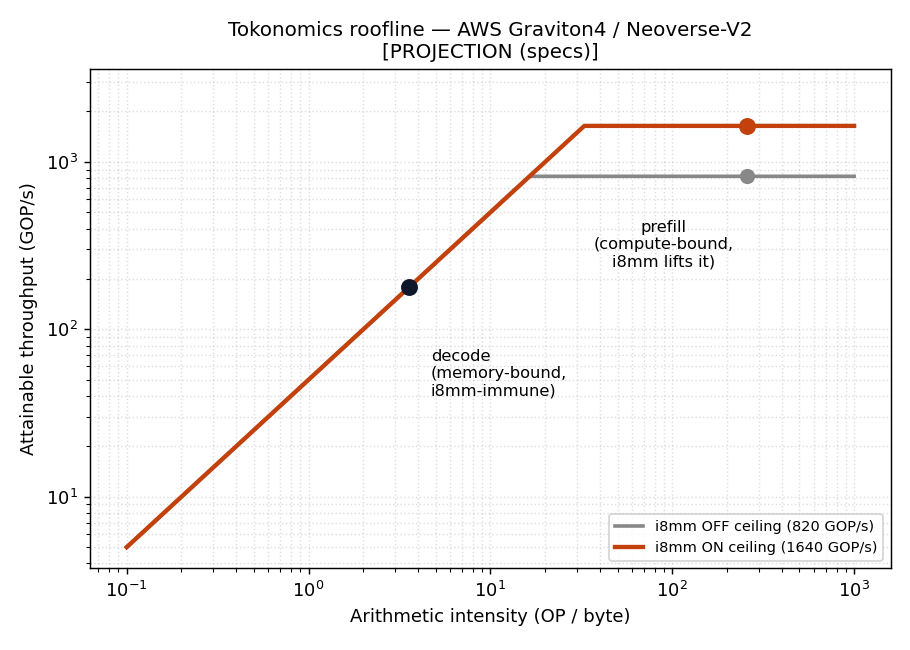
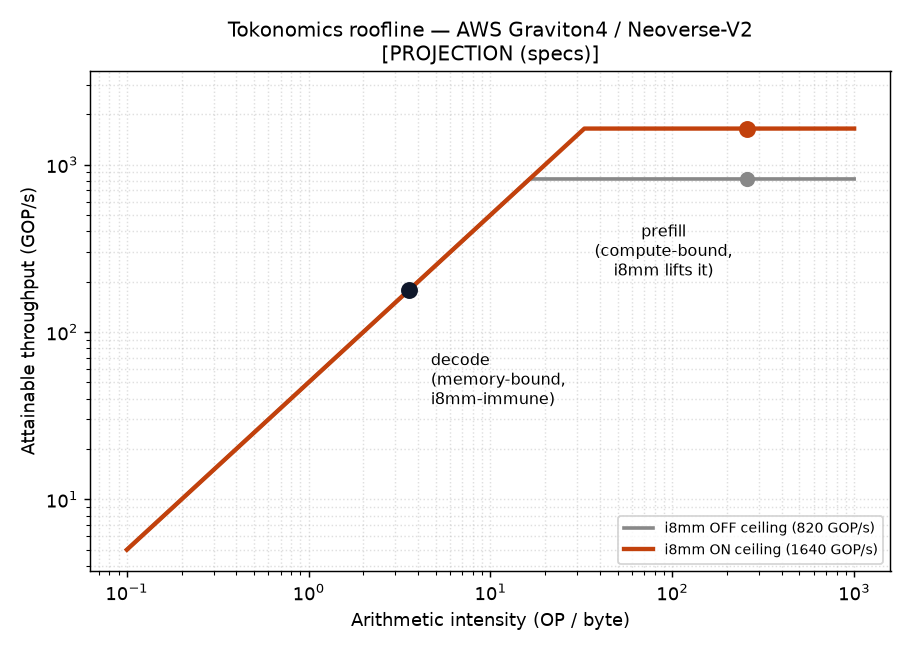
ci: measured Arm N2 economics + figures [skip ci]

diff --git a/REPORT.md b/REPORT.md
@@ -4,13 +4,24 @@ _This file is generated by `tokonomics report`. Do not edit by hand._
 
 `tokens/J*` carries a `*` because **power is never measured here** — it is TDP-derived from published specs. So a `tokens/J*` cell is a **projection even on a row whose throughput is `measured`**: the tok/s may be real silicon, but the joules are an estimate. Treat the energy column as directional, and rank instances by `tokens/$` (fully measured when CI runs) when you need a hard number.
 
+## ✅ MEASURED (on-silicon)
+Model: **Llama-3.2-1B Q4_0**
+
+| instance | phase | i8mm | tok/s | tokens/$ | tokens/J* |
+|---|---|---|--:|--:|--:|
+| cobalt100-n2 | prefill | off | 34.2 | 879,470 | 0.76 |
+| cobalt100-n2 | prefill | on | 40.9 | 1,051,175 | 0.91 |
+| cobalt100-n2 | decode | off | 34.2 | 879,470 | 0.76 |
+| cobalt100-n2 | decode | on | 40.9 | 1,051,175 | 0.91 |
+
+
 ## 🧪 x86 DEV PROXY (float, pipeline check — not Arm int8)
 Model: **Llama-3.2-1B Q4_0**
 
 | instance | phase | i8mm | tok/s | tokens/$ | tokens/J* |
 |---|---|---|--:|--:|--:|
-| x86-dev | prefill | on | 134.7 | 3,036,544 | 2.69 |
-| x86-dev | decode | on | 8.7 | 196,848 | 0.17 |
+| x86-dev | prefill | on | 9.9 | 223,491 | 0.20 |
+| x86-dev | decode | on | 3.9 | 87,340 | 0.08 |
 
 
 ## 📐 PROJECTION (published specs — run CI to measure)
@@ -44,6 +55,3 @@ Model: **Llama-3.2-1B Q4_0**
 > Sensitivity: this is a **projection** computed from the hand-entered `projection/specs.yaml` (bandwidth, peak GOP/s) and `econ/pricing.yaml` ($/hr, TDP). The crossover *ordering* is robust (compute-per-$ rises while bandwidth-per-$ is flat), but the exact ratio where it flips — and whether decode tokens/$ strictly *declines* at the newest chip — depends on those inputs. Re-run CI with measured ceilings to confirm on silicon.
 
 ![crossover](figures/crossover_projected.png)
-
-## Measured Arm numbers
-_Empty until the CI harness runs on real silicon (`.github/workflows/bench.yml`, free `ubuntu-24.04-arm` = Neoverse N2). Fork and run it to populate this section with your own measurements — both the microkernel ablation (`tokonomics measured`) and the real-model llama.cpp run (`tokonomics llama`)._